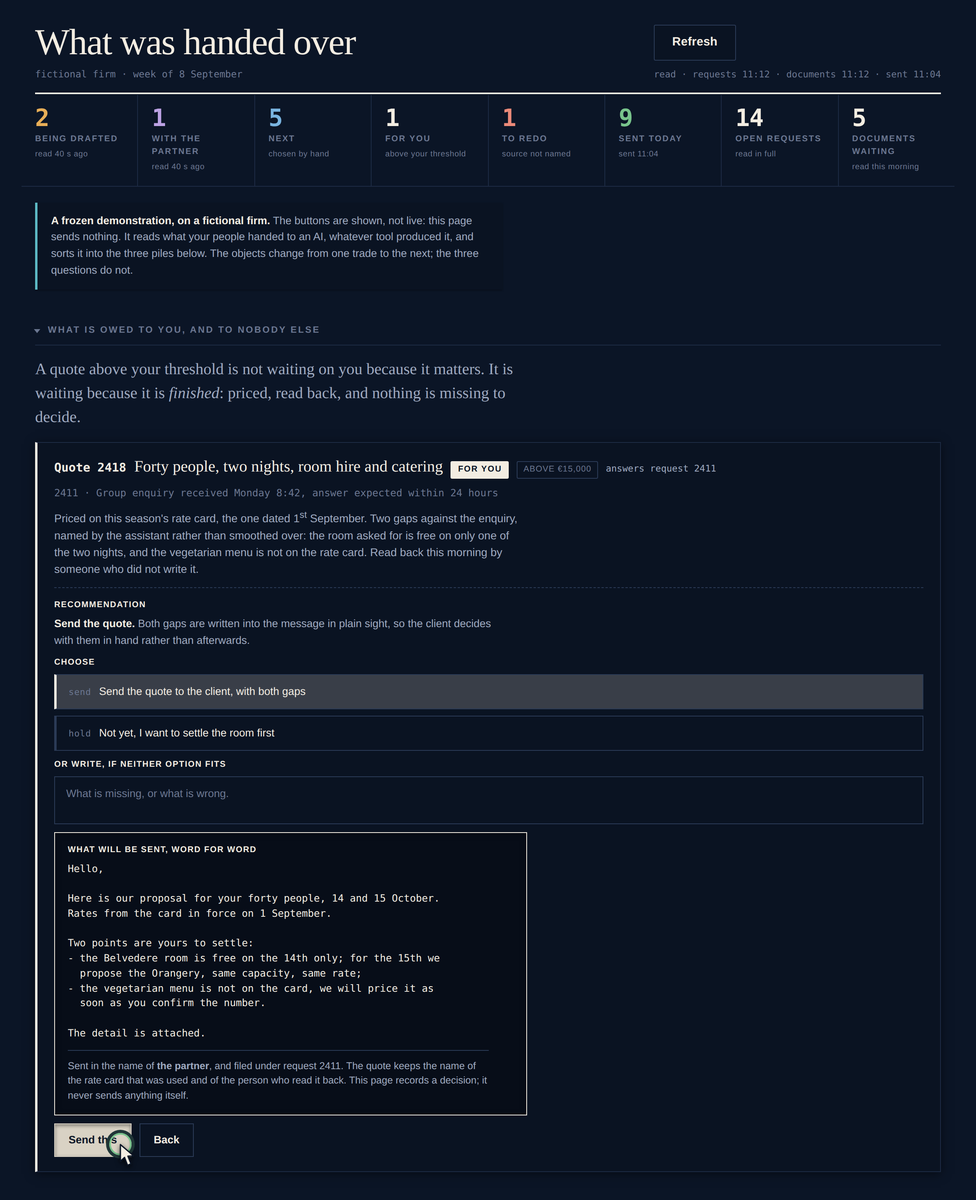
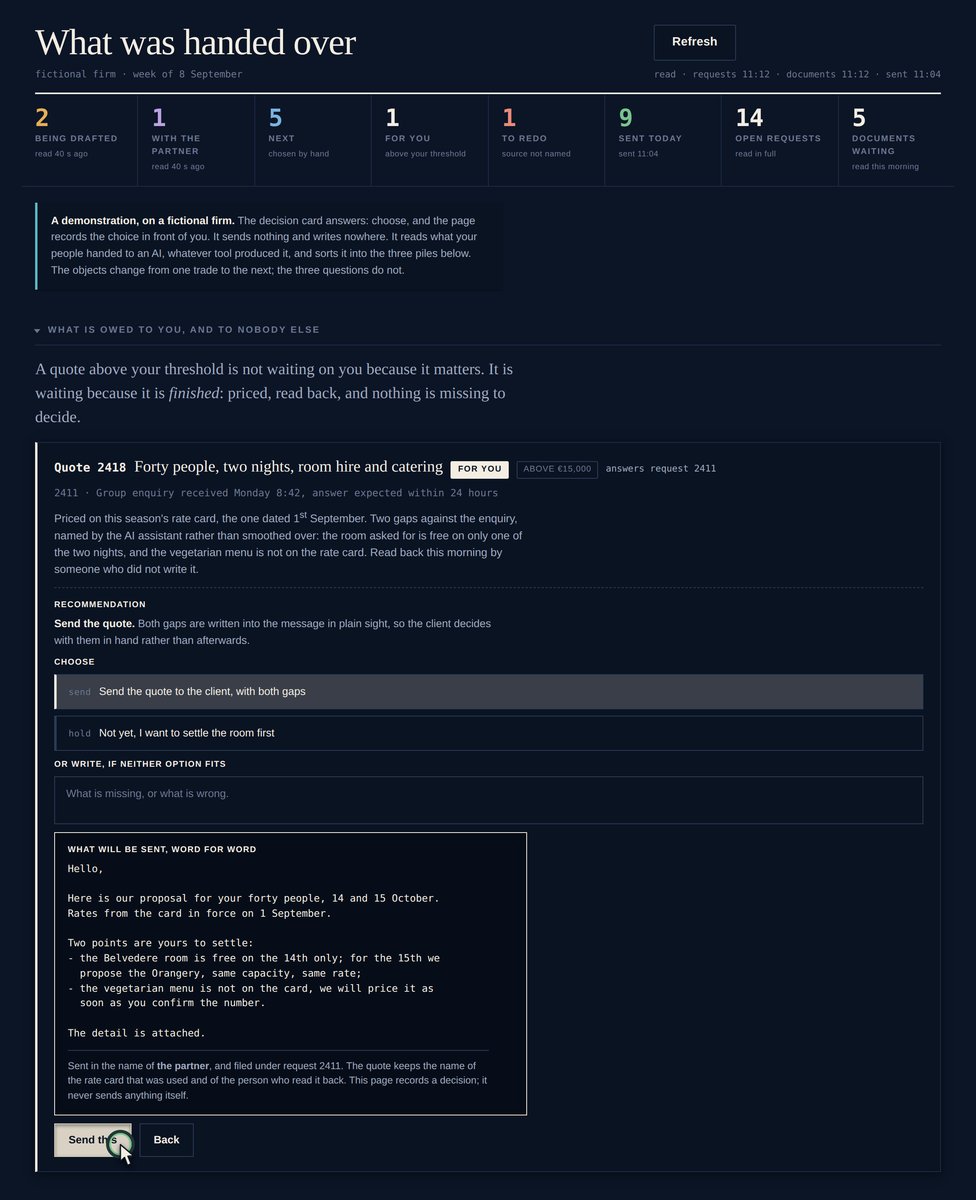
Make the desk answer, and let the six cards line up
The card promised an interactive desk and nothing could be clicked. The decision card now answers: pick send or hold and the exact message switches to the one that matches, press the button and the choice is recorded in front of you, the badge moves and the two counters move with it. Back undoes it. The page still sends nothing and writes nowhere, and now says that rather than calling itself frozen.

The six cards on the no-code track lined up by accident, so a short title or a short paragraph shifted a whole block. The grid rows are now equal by construction and a card title always reserves two lines, so every body starts at the same height and every rule sits at the same depth, whatever the text does.

An assistant, on its own, is the person who runs a director's diary. It is now an AI assistant everywhere it is a machine, and an executive assistant where it is a person, which is exactly the card that made the confusion visible. The shortest paragraphs were 136 and 138 characters against 245 for the longest; they now sit between 226 and 250.

Claude-Session: https://claude.ai/code/session_01LqcSct887mMEBTSHfEnGSw

Changed region(s): [[0.0621, 0.1562, 0.4967, 0.25], [0.1242, 0.4375, 0.5278, 0.4688]]

diff --git a/fr/index.html b/fr/index.html
@@ -343,10 +343,10 @@
   .q .why{font-size:14.5px;color:var(--ink-2);margin-top:10px}
   .punch{margin-top:22px;padding-left:18px;border-left:2px solid var(--amber);font-size:16.5px;color:var(--ink);max-width:70ch}
   .punch strong{font-weight:600}
-  .scenes{display:grid;gap:1px;background:var(--edge-2);border:1px solid var(--edge-2);border-radius:10px;overflow:hidden;grid-template-columns:repeat(auto-fit,minmax(min(300px,100%),1fr));margin-top:var(--gap-object)}
+  .scenes{display:grid;gap:1px;background:var(--edge-2);border:1px solid var(--edge-2);border-radius:10px;overflow:hidden;grid-template-columns:repeat(auto-fit,minmax(min(300px,100%),1fr));grid-auto-rows:1fr;margin-top:var(--gap-object)}
   .scene{background:var(--card);padding:28px 24px 30px;display:flex;flex-direction:column}
   .scene .n{font-family:"IBM Plex Mono",monospace;font-size:11px;color:var(--ink-3);letter-spacing:.1em;text-transform:uppercase;margin:0 0 10px}
-  .scene h3{font-size:17px;margin:0 0 10px;letter-spacing:-.005em}
+  .scene h3{font-size:17px;margin:0 0 10px;letter-spacing:-.005em;min-height:3.3em}
   .scene p{font-size:14.5px;color:var(--ink-2);margin:0;max-width:none}
   /* the rule block is pushed to the foot of the card and given one fixed height, so the separators line up across a row */
   .scene .rule{border:0;margin:14px 0 0;padding-top:12px;border-top:1px solid var(--edge-2);font-size:14px;color:var(--ink);margin-top:auto;min-height:84px}
@@ -929,7 +929,7 @@ Mission #118 — #118 — [MISSION] Dashboard tiles keep their last reading whil
     <div>
       <p class="n"><svg class="i" aria-hidden="true"><use href="#i-scales"/></svg><span>Le cabinet</span></p>
       <h3>Deux réponses contradictoires au même client, à un jour d'intervalle</h3>
-      <p>Deux collaborateurs, deux assistants, deux façons de poser la question. Lundi, le client reçoit une position. Mardi, il reçoit son contraire, sur le même dossier. Il appelle l'associé, qui découvre le problème en même temps que lui.</p>
+      <p>Deux collaborateurs, deux assistants IA, deux façons de poser la question. Lundi, le client reçoit une position. Mardi, il reçoit son contraire, sur le même dossier. Il appelle l'associé, qui découvre le problème en même temps que lui.</p>
       <p>Personne n'a bâclé, personne n'a contourné quoi que ce soit. Ce qui manque n'est pas une règle de plus : c'est de savoir, pour chaque réponse, ce qui a servi à l'écrire et qui l'a relue. Une fois que c'est en place, les deux peuvent faire tourner leurs assistants à plein régime.</p>
     </div>
     <div class="side">
@@ -941,12 +941,12 @@ Mission #118 — #118 — [MISSION] Dashboard tiles keep their last reading whil
     </div>
   </div>
   <div class="scenes">
-    <div class="scene"><p class="n"><svg class="i" aria-hidden="true"><use href="#i-office"/></svg><span>L'hôtel</span></p><h3>Les demandes de groupe partent le jour même</h3><p>Quarante par semaine, le temps d'en chiffrer douze. Les vingt-huit autres attendaient trois jours, et le client réservait ailleurs. Un assistant les chiffre toutes sur la grille de la saison ; le responsable relit et signe avant midi.</p><p class="rule">Chaque devis dit quelle grille a servi, et personne d'autre que le responsable ne l'envoie.</p></div>
-    <div class="scene"><p class="n"><svg class="i" aria-hidden="true"><use href="#i-cards"/></svg><span>La boutique en ligne</span></p><h3>Deux mille références que personne ne trouvait</h3><p>Deux mille produits en ligne sans description : invisibles pour qui les cherche, et ça dure depuis trois ans. Un assistant les rédige depuis les fiches du fabricant, par lots de cinquante, et une personne valide chaque lot.</p><p class="rule">Chaque fiche dit d'où vient ce qu'elle raconte, et rien ne se publie sans qu'une personne ait dit oui.</p></div>
+    <div class="scene"><p class="n"><svg class="i" aria-hidden="true"><use href="#i-office"/></svg><span>L'hôtel</span></p><h3>Les demandes de groupe partent le jour même</h3><p>Quarante par semaine, le temps d'en chiffrer douze. Les vingt-huit autres attendaient trois jours, et le client réservait ailleurs. Un assistant IA les chiffre toutes sur la grille de la saison ; le responsable relit et signe avant midi.</p><p class="rule">Chaque devis dit quelle grille a servi, et personne d'autre que le responsable ne l'envoie.</p></div>
+    <div class="scene"><p class="n"><svg class="i" aria-hidden="true"><use href="#i-cards"/></svg><span>La boutique en ligne</span></p><h3>Deux mille références que personne ne trouvait</h3><p>Deux mille produits en ligne sans description : invisibles pour qui les cherche, et ça dure depuis trois ans. Un assistant IA les rédige depuis les fiches du fabricant, par lots de cinquante, et une personne valide chaque lot.</p><p class="rule">Chaque fiche dit d'où vient ce qu'elle raconte, et rien ne se publie sans qu'une personne ait dit oui.</p></div>
     <div class="scene"><p class="n"><svg class="i" aria-hidden="true"><use href="#i-person"/></svg><span>Les ressources humaines</span></p><h3>Le dossier d'un candidat est sorti de l'entreprise</h3><p>Une collaboratrice colle le CV et ses notes d'entretien dans l'outil qu'elle utilise chez elle pour rédiger le refus. Prétentions salariales, appréciations personnelles. Si ce candidat demande ce qu'on a gardé sur lui, personne ne peut répondre.</p><p class="rule">Les outils autorisés sont connus, et ce qui sort de l'entreprise laisse une trace.</p></div>
-    <div class="scene"><p class="n"><svg class="i" aria-hidden="true"><use href="#i-headset"/></svg><span>Le service client</span></p><h3>Un remboursement promis que personne n'avait autorisé</h3><p>L'assistant qui répond aux messages a offert un geste commercial hors des règles. Découvert trois semaines plus tard, par la comptabilité.</p><p class="rule">L'assistant sait ce qu'il a le droit de promettre, refuse le reste, et dit qu'il refuse.</p></div>
-    <div class="scene"><p class="n"><svg class="i" aria-hidden="true"><use href="#i-mega"/></svg><span>L'agence</span></p><h3>Un chiffre inventé, publié sous le nom du client</h3><p>Le chiffre était crédible, la source n'existait pas, et le texte est resté en ligne quatre jours. Personne ne savait ce qu'on avait demandé à l'assistant, ni qui l'avait demandé.</p><p class="rule">Rien ne se publie sans qu'une personne ait relu, et on garde ce qui a servi à l'écrire.</p></div>
-    <div class="scene"><p class="n"><svg class="i" aria-hidden="true"><use href="#i-case"/></svg><span>La direction</span></p><h3>La méthode est partie en congé</h3><p>L'assistante qui fait produire les comptes-rendus « à sa façon » s'absente trois semaines. Personne ne sait refaire ce qu'elle obtenait.</p><p class="rule">Chaque travail laisse une trace que le suivant peut lire. La méthode reste dans l'entreprise.</p></div>
+    <div class="scene"><p class="n"><svg class="i" aria-hidden="true"><use href="#i-headset"/></svg><span>Le service client</span></p><h3>Un remboursement promis hors des règles</h3><p>L'assistant IA qui répond aux messages a offert un geste commercial que personne n'avait autorisé. Le client l'a accepté, donc il est dû. Découvert trois semaines plus tard par la comptabilité, et personne ne sait sur quelle règle il s'est appuyé.</p><p class="rule">L'assistant IA sait ce qu'il a le droit de promettre, refuse le reste, et dit qu'il refuse.</p></div>
+    <div class="scene"><p class="n"><svg class="i" aria-hidden="true"><use href="#i-mega"/></svg><span>L'agence</span></p><h3>Un chiffre inventé, publié sous le nom du client</h3><p>Le chiffre était crédible, la source n'existait pas, et le texte est resté en ligne quatre jours sous le nom du client. C'est le client qui l'a vu. Personne, à l'agence, ne pouvait dire ce qu'on avait demandé à l'assistant IA, ni qui l'avait demandé.</p><p class="rule">Rien ne se publie sans qu'une personne ait relu, et on garde ce qui a servi à l'écrire.</p></div>
+    <div class="scene"><p class="n"><svg class="i" aria-hidden="true"><use href="#i-case"/></svg><span>La direction</span></p><h3>La méthode est partie en congé pour trois semaines</h3><p>L'assistante de direction fait produire les comptes rendus par une IA, à sa façon, et le résultat est bon. Elle s'absente. Personne ne sait quelles consignes elle donnait ni sur quels documents, et les comptes rendus suivants sont à refaire.</p><p class="rule">Chaque travail laisse une trace que le suivant peut lire. La méthode reste dans l'entreprise.</p></div>
   </div>
 </section>
 

diff --git a/fr/demo/desk/index.html b/fr/demo/desk/index.html
@@ -210,6 +210,13 @@
   .langswitch a{color:var(--ink-2)}
   /* Les trois piles de ce bureau. Memes teintes de chantier, noms du metier. */
   :root{ --w-devis:var(--w-device); --w-reponses:var(--w-sync); --w-comptes:var(--w-dashboard); }
+  /* la carte de decision repond vraiment : c'est ce que la page affirme faire */
+  .opt{cursor:pointer}
+  .decision.settled .opt{cursor:default;opacity:.55}
+  .decision.settled .opt.on{opacity:1}
+  .go{cursor:pointer}
+  .go.done{background:transparent;border:1px solid var(--line-strong);color:var(--ink-2);box-shadow:none}
+  .back{cursor:pointer}
 </style>
 </head>
 <body>
@@ -239,13 +246,13 @@
   </div>
 
   <div class="demoflag">
-    <b>Une démonstration figée, sur un cabinet fictif.</b> Les boutons sont montrés, pas actifs : cette page n’envoie rien. Elle lit ce que vos équipes ont confié à une IA, quel que soit l’outil qui l’a produit, et le range dans les trois piles ci-dessous. Les objets changent d’un métier à l’autre ; les trois questions, non.</div>
+    <b>Une démonstration, sur un cabinet fictif.</b> La carte de décision répond : choisissez, et la page enregistre le choix devant vous. Elle n’envoie rien et n’écrit nulle part. Elle lit ce que vos équipes ont confié à une IA, quel que soit l’outil qui l’a produit, et le range dans les trois piles ci-dessous. Les objets changent d’un métier à l’autre ; les trois questions, non.</div>
 
   <section class="sec">
     <div class="sechead"><span class="chev"></span><span class="nm">Ce qu’on vous doit, à vous et à personne d’autre</span></div>
     <p class="lede">Un devis au-dessus de votre seuil ne vous attend pas parce qu’il est important. Il vous attend parce qu’il est <i>fini</i> : chiffré, relu, et rien ne manque pour décider.</p>
 
-    <article class="decision">
+    <article class="decision" data-sent-badge="parti" data-recorded="Enregistré" data-sent-note="Enregistré à 11:14, au nom de l’associée. Le devis quitte « à vous » et rejoint les envois du jour, en gardant le nom de la grille et celui de la personne qui l’a relu." data-held-note="Enregistré à 11:14. Rien n’est parti, le devis reste « à vous », et la demande 2411 garde son échéance de 24 heures.">
       <div class="head">
         <a>Devis 2418</a>
         <h3>Séminaire 40 personnes, deux nuits, salle et restauration</h3>
@@ -254,7 +261,7 @@
         <span class="rel">répond à la demande 2411</span>
       </div>
       <p class="issueline">2411 · Demande de groupe reçue lundi 8 h 42, réponse attendue sous 24 h</p>
-      <p>Chiffré sur la grille de la saison, celle du 1<sup>er</sup> septembre. Deux écarts par rapport à la demande, nommés par l’assistant plutôt que lissés : la salle demandée n’est libre qu’un des deux soirs, et le menu végétarien n’est pas chiffré dans la grille. Relu ce matin par une personne qui ne l’a pas rédigé.</p>
+      <p>Chiffré sur la grille de la saison, celle du 1<sup>er</sup> septembre. Deux écarts par rapport à la demande, nommés par l’assistant IA plutôt que lissés : la salle demandée n’est libre qu’un des deux soirs, et le menu végétarien n’est pas chiffré dans la grille. Relu ce matin par une personne qui ne l’a pas rédigé.</p>
 
       <div class="act">
         <div>
@@ -264,8 +271,8 @@
         <div>
           <p class="lbl">Choisir</p>
           <div class="opts">
-            <div class="opt on"><span class="k">envoyer</span><span>Envoyer le devis au client, avec les deux écarts</span></div>
-            <div class="opt"><span class="k">garder</span><span>Pas encore, je veux d’abord trancher la salle</span></div>
+            <div class="opt on" data-k="envoyer"><span class="k">envoyer</span><span>Envoyer le devis au client, avec les deux écarts</span></div>
+            <div class="opt" data-k="garder"><span class="k">garder</span><span>Pas encore, je veux d’abord trancher la salle</span></div>
           </div>
         </div>
         <div>
@@ -274,7 +281,7 @@
         </div>
         <div class="exact">
           <p class="lbl">Ce qui partira, mot pour mot</p>
-          <pre>Bonjour,
+          <pre data-for="envoyer">Bonjour,
 
 Voici notre proposition pour vos 40 personnes, les 14 et 15 octobre.
 Tarifs de la grille en vigueur au 1er septembre.
@@ -286,6 +293,11 @@ Deux points à votre main :
   dès que vous nous confirmez le nombre.
 
 Le détail est en pièce jointe.</pre>
+          <pre data-for="garder" hidden>Rien ne part au client.
+
+Gardé par l’associée : la salle du 15 doit être tranchée
+avant l’envoi. Le devis reste dans « à vous », et la demande
+2411 garde son échéance de 24 heures.</pre>
           <p class="also">Envoyé au nom de <b>l’associée</b>, et classé sous la demande 2411. Le devis garde le nom de la grille qui a servi et celui de la personne qui l’a relu. Cette page enregistre une décision ; elle n’envoie rien d’elle-même.</p>
         </div>
         <div class="row">
@@ -453,3 +465,60 @@ Le détail est en pièce jointe.</pre>
 </script>
 </body>
 </html>
+<script>
+/* La decision se prend sur la page. Rien n'est envoye : la page enregistre un
+   choix devant vous et le montre, ce qui est exactement ce qu'elle affirme. */
+(function () {
+  var card = document.querySelector(".decision"); if (!card) return;
+  var opts = [].slice.call(card.querySelectorAll(".opt"));
+  var pres = [].slice.call(card.querySelectorAll(".exact pre"));
+  var go = card.querySelector(".go"), back = card.querySelector(".back");
+  var badge = card.querySelector(".head .badge");
+  var tileYou = document.querySelector(".tile.s-you b");
+  var tileDone = document.querySelector(".tile.s-done b");
+  var note = document.createElement("p");
+  note.className = "also"; note.hidden = true;
+  card.querySelector(".exact").appendChild(note);
+  var D = card.dataset, start = {
+    badgeText: badge.textContent, badgeClass: badge.className,
+    you: tileYou.textContent, done: tileDone.textContent, goText: go.textContent
+  };
+  function choice() { var o = card.querySelector(".opt.on"); return o ? o.dataset.k : "envoyer"; }
+  function show(k) {
+    opts.forEach(function (o) { o.classList.toggle("on", o.dataset.k === k); });
+    pres.forEach(function (p) { p.hidden = p.dataset.for !== k; });
+  }
+  function reset() {
+    show("envoyer"); note.hidden = true;
+    badge.textContent = start.badgeText; badge.className = start.badgeClass;
+    tileYou.textContent = start.you; tileDone.textContent = start.done;
+    go.textContent = start.goText; go.classList.remove("done");
+    card.classList.remove("settled");
+  }
+  function settle() {
+    var k = choice();
+    if (k === "envoyer") {
+      badge.textContent = D.sentBadge; badge.className = "badge s-done";
+      tileYou.textContent = String(Math.max(0, parseInt(start.you, 10) - 1));
+      tileDone.textContent = String(parseInt(start.done, 10) + 1);
+      note.textContent = D.sentNote;
+    } else {
+      note.textContent = D.heldNote;
+    }
+    note.hidden = false; go.textContent = D.recorded;
+    go.classList.add("done"); card.classList.add("settled");
+  }
+  opts.forEach(function (o) {
+    o.setAttribute("role", "button"); o.tabIndex = 0;
+    function pick() { if (!card.classList.contains("settled")) show(o.dataset.k); }
+    o.addEventListener("click", pick);
+    o.addEventListener("keydown", function (e) { if (e.key === "Enter" || e.key === " ") { e.preventDefault(); pick(); } });
+  });
+  [go, back].forEach(function (el) { el.setAttribute("role", "button"); el.tabIndex = 0; });
+  go.addEventListener("click", function () { if (!card.classList.contains("settled")) settle(); });
+  back.addEventListener("click", reset);
+  go.addEventListener("keydown", function (e) { if (e.key === "Enter" || e.key === " ") { e.preventDefault(); if (!card.classList.contains("settled")) settle(); } });
+  back.addEventListener("keydown", function (e) { if (e.key === "Enter" || e.key === " ") { e.preventDefault(); reset(); } });
+  show("envoyer");
+})();
+</script>

diff --git a/index.html b/index.html
@@ -337,10 +337,10 @@
   .q .why{font-size:14.5px;color:var(--ink-2);margin-top:10px}
   .punch{margin-top:22px;padding-left:18px;border-left:2px solid var(--amber);font-size:16.5px;color:var(--ink);max-width:70ch}
   .punch strong{font-weight:600}
-  .scenes{display:grid;gap:1px;background:var(--edge-2);border:1px solid var(--edge-2);border-radius:10px;overflow:hidden;grid-template-columns:repeat(auto-fit,minmax(min(300px,100%),1fr));margin-top:var(--gap-object)}
+  .scenes{display:grid;gap:1px;background:var(--edge-2);border:1px solid var(--edge-2);border-radius:10px;overflow:hidden;grid-template-columns:repeat(auto-fit,minmax(min(300px,100%),1fr));grid-auto-rows:1fr;margin-top:var(--gap-object)}
   .scene{background:var(--card);padding:28px 24px 30px;display:flex;flex-direction:column}
   .scene .n{font-family:"IBM Plex Mono",monospace;font-size:11px;color:var(--ink-3);letter-spacing:.1em;text-transform:uppercase;margin:0 0 10px}
-  .scene h3{font-size:17px;margin:0 0 10px;letter-spacing:-.005em}
+  .scene h3{font-size:17px;margin:0 0 10px;letter-spacing:-.005em;min-height:3.3em}
   .scene p{font-size:14.5px;color:var(--ink-2);margin:0;max-width:none}
   /* the rule block is pushed to the foot of the card and given one fixed height, so the separators line up across a row */
   .scene .rule{border:0;margin:14px 0 0;padding-top:12px;border-top:1px solid var(--edge-2);font-size:14px;color:var(--ink);margin-top:auto;min-height:84px}
@@ -921,7 +921,7 @@ Mission #118 — #118 — [MISSION] Dashboard tiles keep their last reading whil
     <div>
       <p class="n"><svg class="i" aria-hidden="true"><use href="#i-scales"/></svg><span>The firm</span></p>
       <h3>Two contradictory answers to the same client, one day apart</h3>
-      <p>Two associates, two assistants, two ways of asking the question. On Monday the client gets one position. On Tuesday he gets the opposite, on the same matter. He calls the partner, who finds out at the same moment he does.</p>
+      <p>Two associates, two AI assistants, two ways of asking the question. On Monday the client gets one position. On Tuesday he gets the opposite, on the same matter. He calls the partner, who finds out at the same moment he does.</p>
       <p>Nobody cut a corner, nobody went around anything. What is missing is not one more rule: it is knowing, for every answer, what was used to write it and who read it back. Once that is in place, both of them can put their assistants to work at full speed.</p>
     </div>
     <div class="side">
@@ -933,12 +933,12 @@ Mission #118 — #118 — [MISSION] Dashboard tiles keep their last reading whil
     </div>
   </div>
   <div class="scenes">
-    <div class="scene"><p class="n"><svg class="i" aria-hidden="true"><use href="#i-office"/></svg><span>The hotel</span></p><h3>Group enquiries go out the same day</h3><p>Forty a week, time to price twelve. The other twenty-eight waited three days, and the client booked elsewhere. An assistant prices them all on this season's rates; the manager reads and signs before noon.</p><p class="rule">Every quote says which rate card was used, and nobody but the manager sends it.</p></div>
-    <div class="scene"><p class="n"><svg class="i" aria-hidden="true"><use href="#i-cards"/></svg><span>The online shop</span></p><h3>Two thousand products nobody could find</h3><p>Two thousand products online with no description: invisible to anyone searching for them, and it has been that way three years. An assistant writes them from the manufacturer's sheets, in batches of fifty, and a person approves each batch.</p><p class="rule">Every page says where what it claims came from, and nothing is published until a person says yes.</p></div>
+    <div class="scene"><p class="n"><svg class="i" aria-hidden="true"><use href="#i-office"/></svg><span>The hotel</span></p><h3>Group enquiries go out the same day</h3><p>Forty a week, time to price twelve. The other twenty-eight waited three days, and the client booked elsewhere. An AI assistant prices them all on this season's rates; the manager reads and signs before noon.</p><p class="rule">Every quote says which rate card was used, and nobody but the manager sends it.</p></div>
+    <div class="scene"><p class="n"><svg class="i" aria-hidden="true"><use href="#i-cards"/></svg><span>The online shop</span></p><h3>Two thousand products nobody could find</h3><p>Two thousand products online with no description: invisible to anyone searching for them, and it has been that way three years. An AI assistant writes them from the manufacturer's sheets, in batches of fifty, and a person approves each batch.</p><p class="rule">Every page says where what it claims came from, and nothing is published until a person says yes.</p></div>
     <div class="scene"><p class="n"><svg class="i" aria-hidden="true"><use href="#i-person"/></svg><span>Human resources</span></p><h3>A candidate's file left the company</h3><p>A colleague pastes the CV and her interview notes into the tool she uses at home to write the rejection. Salary expectations, personal impressions. If that candidate asks what was kept about them, nobody can answer.</p><p class="rule">Everyone knows which tools are allowed, and what leaves the company leaves a record.</p></div>
-    <div class="scene"><p class="n"><svg class="i" aria-hidden="true"><use href="#i-headset"/></svg><span>The support desk</span></p><h3>A refund promised that nobody had authorised</h3><p>The assistant answering messages offered a gesture outside the rules. Found three weeks later, by accounting.</p><p class="rule">The assistant knows what it may promise, refuses the rest, and says that it refuses.</p></div>
-    <div class="scene"><p class="n"><svg class="i" aria-hidden="true"><use href="#i-mega"/></svg><span>The agency</span></p><h3>An invented figure, published under the client's name</h3><p>The figure was credible, the source did not exist, and the text stayed online for four days. Nobody knew what the assistant had been asked, or by whom.</p><p class="rule">Nothing is published until a person has read it, and what was used to write it is kept.</p></div>
-    <div class="scene"><p class="n"><svg class="i" aria-hidden="true"><use href="#i-case"/></svg><span>Management</span></p><h3>The method went on leave</h3><p>The assistant who has the board minutes produced “her way” is off for three weeks. Nobody knows how to get what she got.</p><p class="rule">Every piece of work leaves a record the next one can read. The method stays in the company.</p></div>
+    <div class="scene"><p class="n"><svg class="i" aria-hidden="true"><use href="#i-headset"/></svg><span>The support desk</span></p><h3>A refund promised outside the rules</h3><p>The AI assistant answering messages offered a gesture nobody had authorised. The client accepted it, so it is owed. Found three weeks later by accounting, and nobody can say which rule it thought it was following.</p><p class="rule">The AI assistant knows what it may promise, refuses the rest, and says that it refuses.</p></div>
+    <div class="scene"><p class="n"><svg class="i" aria-hidden="true"><use href="#i-mega"/></svg><span>The agency</span></p><h3>An invented figure, published under the client's name</h3><p>The figure was credible, the source did not exist, and the text stayed online for four days under the client's name. The client is the one who spotted it. Nobody at the agency could say what the AI assistant had been asked, or by whom.</p><p class="rule">Nothing is published until a person has read it, and what was used to write it is kept.</p></div>
+    <div class="scene"><p class="n"><svg class="i" aria-hidden="true"><use href="#i-case"/></svg><span>Management</span></p><h3>The method went on leave for three weeks</h3><p>The executive assistant has the board minutes produced by an AI, her way, and the result is good. She is away. Nobody knows what she asked for or from which documents, and the next minutes have to be redone.</p><p class="rule">Every piece of work leaves a record the next one can read. The method stays in the company.</p></div>
   </div>
 </section>
 

diff --git a/demo/desk/index.html b/demo/desk/index.html
@@ -210,6 +210,13 @@
   .langswitch a{color:var(--ink-2)}
   /* The three piles on this desk. Same workstream hues, the trade's own names. */
   :root{ --w-quotes:var(--w-device); --w-replies:var(--w-sync); --w-minutes:var(--w-dashboard); }
+  /* la carte de decision repond vraiment : c'est ce que la page affirme faire */
+  .opt{cursor:pointer}
+  .decision.settled .opt{cursor:default;opacity:.55}
+  .decision.settled .opt.on{opacity:1}
+  .go{cursor:pointer}
+  .go.done{background:transparent;border:1px solid var(--line-strong);color:var(--ink-2);box-shadow:none}
+  .back{cursor:pointer}
 </style>
 </head>
 <body>
@@ -239,13 +246,13 @@
   </div>
 
   <div class="demoflag">
-    <b>A frozen demonstration, on a fictional firm.</b> The buttons are shown, not live: this page sends nothing. It reads what your people handed to an AI, whatever tool produced it, and sorts it into the three piles below. The objects change from one trade to the next; the three questions do not.</div>
+    <b>A demonstration, on a fictional firm.</b> The decision card answers: choose, and the page records the choice in front of you. It sends nothing and writes nowhere. It reads what your people handed to an AI, whatever tool produced it, and sorts it into the three piles below. The objects change from one trade to the next; the three questions do not.</div>
 
   <section class="sec">
     <div class="sechead"><span class="chev"></span><span class="nm">What is owed to you, and to nobody else</span></div>
     <p class="lede">A quote above your threshold is not waiting on you because it matters. It is waiting because it is <i>finished</i>: priced, read back, and nothing is missing to decide.</p>
 
-    <article class="decision">
+    <article class="decision" data-sent-badge="sent" data-recorded="Recorded" data-sent-note="Recorded at 11:14, in the name of the partner. The quote leaves “for you” and joins the day’s sent pile, keeping the name of the rate card and of the person who read it back." data-held-note="Recorded at 11:14. Nothing went out, the quote stays in “for you”, and request 2411 keeps its 24-hour clock.">
       <div class="head">
         <a>Quote 2418</a>
         <h3>Forty people, two nights, room hire and catering</h3>
@@ -254,7 +261,7 @@
         <span class="rel">answers request 2411</span>
       </div>
       <p class="issueline">2411 · Group enquiry received Monday 8:42, answer expected within 24 hours</p>
-      <p>Priced on this season's rate card, the one dated 1<sup>st</sup> September. Two gaps against the enquiry, named by the assistant rather than smoothed over: the room asked for is free on only one of the two nights, and the vegetarian menu is not on the rate card. Read back this morning by someone who did not write it.</p>
+      <p>Priced on this season's rate card, the one dated 1<sup>st</sup> September. Two gaps against the enquiry, named by the AI assistant rather than smoothed over: the room asked for is free on only one of the two nights, and the vegetarian menu is not on the rate card. Read back this morning by someone who did not write it.</p>
 
       <div class="act">
         <div>
@@ -264,8 +271,8 @@
         <div>
           <p class="lbl">Choose</p>
           <div class="opts">
-            <div class="opt on"><span class="k">send</span><span>Send the quote to the client, with both gaps</span></div>
-            <div class="opt"><span class="k">hold</span><span>Not yet, I want to settle the room first</span></div>
+            <div class="opt on" data-k="envoyer"><span class="k">send</span><span>Send the quote to the client, with both gaps</span></div>
+            <div class="opt" data-k="garder"><span class="k">hold</span><span>Not yet, I want to settle the room first</span></div>
           </div>
         </div>
         <div>
@@ -274,7 +281,7 @@
         </div>
         <div class="exact">
           <p class="lbl">What will be sent, word for word</p>
-          <pre>Hello,
+          <pre data-for="envoyer">Hello,
 
 Here is our proposal for your forty people, 14 and 15 October.
 Rates from the card in force on 1 September.
@@ -286,6 +293,11 @@ Two points are yours to settle:
   soon as you confirm the number.
 
 The detail is attached.</pre>
+          <pre data-for="garder" hidden>Nothing goes to the client.
+
+Held by the partner: the room for the 15th has to be settled
+before this goes out. The quote stays in “for you”, and
+request 2411 keeps its 24-hour clock.</pre>
           <p class="also">Sent in the name of <b>the partner</b>, and filed under request 2411. The quote keeps the name of the rate card that was used and of the person who read it back. This page records a decision; it never sends anything itself.</p>
         </div>
         <div class="row">
@@ -453,3 +465,60 @@ The detail is attached.</pre>
 </script>
 </body>
 </html>
+<script>
+/* La decision se prend sur la page. Rien n'est envoye : la page enregistre un
+   choix devant vous et le montre, ce qui est exactement ce qu'elle affirme. */
+(function () {
+  var card = document.querySelector(".decision"); if (!card) return;
+  var opts = [].slice.call(card.querySelectorAll(".opt"));
+  var pres = [].slice.call(card.querySelectorAll(".exact pre"));
+  var go = card.querySelector(".go"), back = card.querySelector(".back");
+  var badge = card.querySelector(".head .badge");
+  var tileYou = document.querySelector(".tile.s-you b");
+  var tileDone = document.querySelector(".tile.s-done b");
+  var note = document.createElement("p");
+  note.className = "also"; note.hidden = true;
+  card.querySelector(".exact").appendChild(note);
+  var D = card.dataset, start = {
+    badgeText: badge.textContent, badgeClass: badge.className,
+    you: tileYou.textContent, done: tileDone.textContent, goText: go.textContent
+  };
+  function choice() { var o = card.querySelector(".opt.on"); return o ? o.dataset.k : "envoyer"; }
+  function show(k) {
+    opts.forEach(function (o) { o.classList.toggle("on", o.dataset.k === k); });
+    pres.forEach(function (p) { p.hidden = p.dataset.for !== k; });
+  }
+  function reset() {
+    show("envoyer"); note.hidden = true;
+    badge.textContent = start.badgeText; badge.className = start.badgeClass;
+    tileYou.textContent = start.you; tileDone.textContent = start.done;
+    go.textContent = start.goText; go.classList.remove("done");
+    card.classList.remove("settled");
+  }
+  function settle() {
+    var k = choice();
+    if (k === "envoyer") {
+      badge.textContent = D.sentBadge; badge.className = "badge s-done";
+      tileYou.textContent = String(Math.max(0, parseInt(start.you, 10) - 1));
+      tileDone.textContent = String(parseInt(start.done, 10) + 1);
+      note.textContent = D.sentNote;
+    } else {
+      note.textContent = D.heldNote;
+    }
+    note.hidden = false; go.textContent = D.recorded;
+    go.classList.add("done"); card.classList.add("settled");
+  }
+  opts.forEach(function (o) {
+    o.setAttribute("role", "button"); o.tabIndex = 0;
+    function pick() { if (!card.classList.contains("settled")) show(o.dataset.k); }
+    o.addEventListener("click", pick);
+    o.addEventListener("keydown", function (e) { if (e.key === "Enter" || e.key === " ") { e.preventDefault(); pick(); } });
+  });
+  [go, back].forEach(function (el) { el.setAttribute("role", "button"); el.tabIndex = 0; });
+  go.addEventListener("click", function () { if (!card.classList.contains("settled")) settle(); });
+  back.addEventListener("click", reset);
+  go.addEventListener("keydown", function (e) { if (e.key === "Enter" || e.key === " ") { e.preventDefault(); if (!card.classList.contains("settled")) settle(); } });
+  back.addEventListener("keydown", function (e) { if (e.key === "Enter" || e.key === " ") { e.preventDefault(); reset(); } });
+  show("envoyer");
+})();
+</script>
